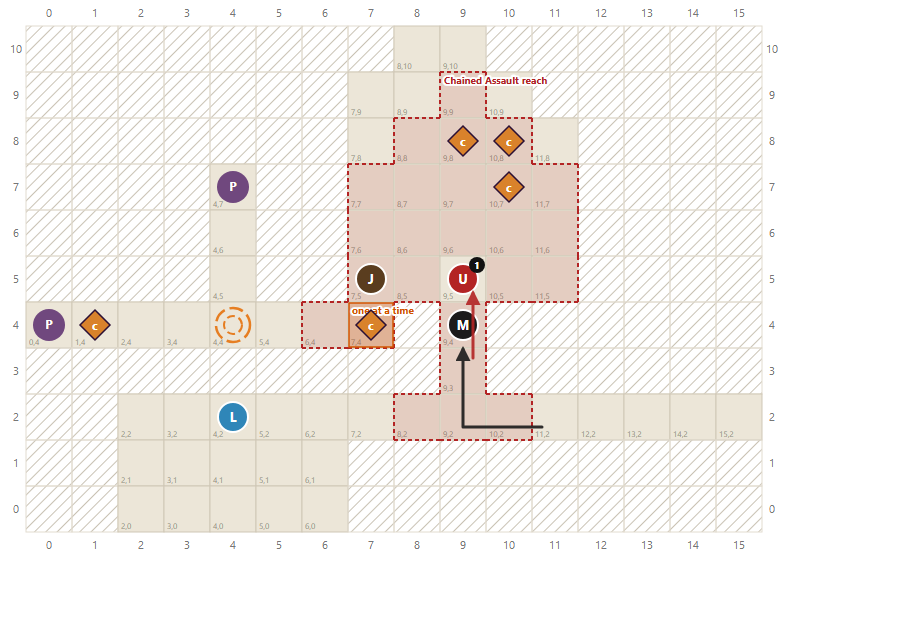
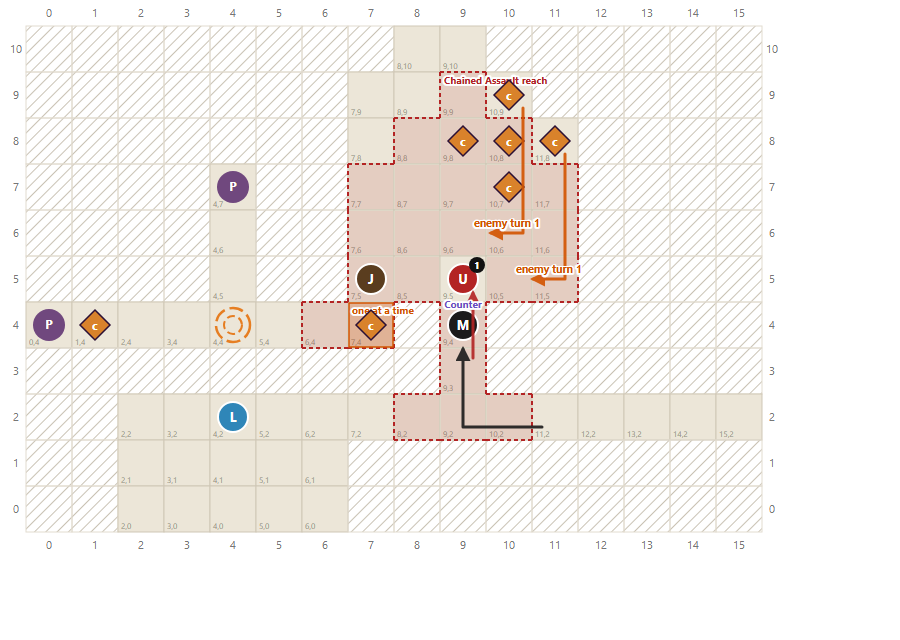
m4-mark-rework: plan with THJ's answers, grids re-rendered and checked

Changed region(s): [[0.5289, 0.125, 0.6533, 0.4688], [0.4978, 0.4688, 0.56, 0.5]]

diff --git a/plans/onboarding/2026-11-05-m4-mark-rework.md b/plans/onboarding/2026-11-05-m4-mark-rework.md
@@ -2,7 +2,18 @@
 
 Size: L    Tier: 3    Assigned to: miso-game-designer (plan); miso-implementer (wiring, after approval)
 Branch: `thj/onboarding` (the working main, D-396)
-Status: waiting on THJ
+Status: approved by THJ 2026-11-05 (D-398)
+
+**THJ's answers (D-398):**
+
+- **Q1:** A+.
+- **Q2:** the 3 hidden Claws appear at John's line, **plus 2 visible around the mother from the start**.
+- **Q3:** real pools, refilling every enemy turn (`SpecificTurns`), with 0-XP variants. This is an exception to D-345.
+- **Q4:** the passage up.
+- **Q5, Q6, Q8:** as recommended.
+- **Q7:** John starts on 10,5. The 7,5 in the drawing only showed the goal.
+
+The plan below is updated to these answers.
 
 ## Why
 
@@ -18,7 +29,7 @@ A ~5-minute telling where the player does three family things in order, each wit
 - [ ] Mark's arrival is followed by a fresh player turn with the camera on Mark (selection after a Reset is random today; see Q8), and his Blitz plus Continuous Attack clear the two Claws that came with him.
 - [ ] John standing on 7,5 plays his line, reveals the Claws by the mother and unlocks the Mark–Lucy Duo, which pulses until it is used.
 - [ ] From the stage that unlocks it, Lucy and Mark can reach a tile where Chained Assault has 3 targets in the same turn.
-- [ ] The last Claw by the mother dying plays her fall, the walk to the cub and the end, and the level is won. No "reach the cub" objective is left.
+- [ ] The last of the five Claws by the mother (2 visible from the start, 3 revealed) dying plays her fall, the walk to the cub and the end, and the level is won. No "reach the cub" objective is left.
 - [ ] Every stage moves on at a turn cap, so a slow or lost player still reaches the end.
 - [ ] No Duo other than Mark–Lucy, and no Cleanse, can be used in the level.
 
@@ -58,12 +69,12 @@ Coordinates are the drawing's (`m4now`). The prefab's top room sits one column r
 |---|---|---|---|
 | 1 | Mark and the two bottom-right Claws hidden at start | One reveal group `arrival`: Mark 15,2, Claws 11,2 and 13,2 | **Confirm.** Tech T3: can `HiddenLevelUnits` hide a *player* unit? (not covered by the tech check) |
 | 2 | Play Tempest Bloom after the opening line | See [Item 2 options](#item-2-how-the-player-plays-tempest-bloom). **Correction to B as drawn:** Lucy on 7,2 can't reach the den. The Bloom tile is 4,4 (the corridor crossing, where the old prism was), 5 tiles from 7,2, and her Cyclone reaches 3 (GDD; the asset may say 4, T8). Lucy must start in the bottom room, and A's "she runs right" becomes part of the arrival | Correct |
-| 3 | Mark appears, turn resets, Mark selected, Mark and Lucy in front in the narrow path | **Selection:** after a Reset the game auto-selects a random unit that can act (tech check). Making it Mark takes two new small sequences (tag the others `Status.Inactive`, then give them AP back), so I propose the camera on Mark instead (Q8). **Narrow path = the x = 9 passage (9,2 → 9,3 → 9,4) up to the top room.** Lucy runs to 9,3 during the arrival sequence. Mark's arrival chain (Blitz 13,2, Continuous Attack 11,2) ends on 11,2, 2 tiles from the passage. Both are then one move from the Duo tiles | Propose (Q4) |
+| 3 | Mark appears, turn resets, Mark selected, Mark and Lucy in front in the narrow path | **Selection:** after a Reset the game auto-selects a random unit that can act (tech check). Making it Mark takes two new small sequences (tag the others `Status.Inactive`, then give them AP back), so the camera goes on Mark instead (Q8, answered). **Narrow path = the x = 9 passage (9,2 → 9,3 → 9,4) up to the top room.** Lucy runs to 9,3 during the arrival sequence. Mark's arrival chain (Blitz 13,2, Continuous Attack 11,2) ends on 11,2, 2 tiles from the passage. Both are then one move from the Duo tiles, and both are in front of John and Linda, as THJ wanted | **Answered (Q4)** |
 | 4 | All Duos and Cleanse locked | All seven Duos and all four Cleanse buttons locked all level; only Mark–Lucy unlocks (at John's line). Reason for Cleanse: one Cleanse destroys a Corruption pool (`level-chunks.md` hazard table), which would make John's hold pointless | Confirm |
-| 5 | John to 7,5 → his line → new Claws on top → Duo hint → Duo unlocks and pulses | **Correction: John can't start on 7,5** (drawn there), or the objective is done at once. He starts on **10,5**, 3 steps away, in the top room. "New Claws appear on top" = **the Claws by the mother start hidden** and appear at his line. Otherwise they walk down at the family before the Duo exists, and the player kills them with basic attacks (Q2) | Correct, propose |
-| 6 | Top Claws dead → mother dies → success | Stage 3 = "every Claw by the mother dead". It must count only that group, because the pools keep Claws alive in the den (T5) | Confirm |
-| 7 | Pools keep one Claw each | The `P` tiles are the existing Corruption pools (`CP_Spawner`, `spawnLimit` 1). Tech check: as placed they refill on enemy turns 1, 3 and 5 only. Listing every turn (`intervalMode = SpecificTurns`) makes them check each enemy turn (data; `interval = 0` is a core bug that never refires). Spawned Claws give 3 XP today, so they need a **0-XP Hearth Claw plus pool variants** (data). That is an exception to **D-345** (no spawned enemies in the memory). Still open: whether spawns come in Alerted (EN-12: spawns are Unaware unless a hostile is within 3, and both pools are 5+ from everyone) | Confirm, with Q3 |
-| 8 | Heroes walk to the cub in a sequence, no "reach the cub" goal | Fixed walkers: **Lucy and Mark** (the Duo pair, nearest after the Duo, and Lucy is the cub's future owner). Tech check: `MoveUnitSequence` walks a unit by nickname to a fixed cell along a real path, one unit after another, and does **nothing, silently, if the path is blocked**. The cub and the mother are sprites, not units; the mother's fall already works (LSB `motherFalls`). "Closest" or "next to" is new code (S–M) | Propose (Q5) |
+| 5 | John to 7,5 → his line → new Claws on top → Duo hint → Duo unlocks and pulses | John starts on **10,5**, 3 steps away, in the top room; 7,5 only marked the goal. "New Claws appear on top" = **3 hidden Claws (9,8 / 10,8 / 10,7)** appear at his line. **2 Claws stand visible by the mother from the start (10,9 / 11,8)** | **Answered (Q2, Q7)** |
+| 6 | Top Claws dead → mother dies → success | Stage 3 = "all five Claws by the mother dead" (explicit list). It must count only that group, because the pools keep Claws alive in the den (T5) | Confirm |
+| 7 | Pools keep one Claw each | The `P` tiles are the existing Corruption pools (`CP_Spawner`, `spawnLimit` 1). Tech check: as placed they refill on enemy turns 1, 3 and 5 only. Listing every turn (`intervalMode = SpecificTurns`) makes them check each enemy turn (data; `interval = 0` is a core bug that never refires). Spawned Claws give 3 XP today, so they need a **0-XP Hearth Claw plus pool variants** (data). That is an exception to **D-345** (no spawned enemies in the memory), logged with D-398. THJ: the pool's Recurring mode spends a turn re-arming after each fire, so every turn is only possible by listing the turns. Still open: whether spawns come in Alerted (EN-12: spawns are Unaware unless a hostile is within 3, and both pools are 5+ from everyone) | **Answered (Q3)** |
+| 8 | Heroes walk to the cub in a sequence, no "reach the cub" goal | Fixed walkers: **Lucy and Mark** (the Duo pair, nearest after the Duo, and Lucy is the cub's future owner). Tech check: `MoveUnitSequence` walks a unit by nickname to a fixed cell along a real path, one unit after another, and does **nothing, silently, if the path is blocked**. The cub and the mother are sprites, not units; the mother's fall already works (LSB `motherFalls`). "Closest" or "next to" is new code (S–M) | **Answered (Q5)** |
 
 ---
 
@@ -123,8 +134,10 @@ From these facts, the **cheapest version that teaches is A+**: the sequence cast
 |---|---|---|
 | Den Claws' HP | 2,4 / 6,4 / 4,5 = 6; 4,6 = 3; 1,4 / 7,4 = 10 | The Bloom kills 4 under either copy-range model; 7,4 survives to face John |
 | Arrival Claws' HP | 11,2 / 13,2 = 8 | Each Blitz (8) kills, so Continuous Attack chains (old plan's gallery values) |
-| Top Claws | 3, at 9,8 / 10,8 / 10,7, HP 7 | From 9,5 all three are within 4 (3, 4, 3). Chained Assault at ×0.7 does 2.1 + 5.6 = 7.7 (≥ 7, even rounded down per hit: 2 + 5 = 7). The Duo ends the fight |
-| Pool cadence | 1 (a Claw each enemy turn when the pool's own Claw is dead) | THJ's "each turn"; was 3 |
+| Top Claws, hidden (`top`) | 3, at 9,8 / 10,8 / 10,7, HP 7 | From 9,5 all three are within 4 (3, 4, 3). Chained Assault at ×0.7 does 2.1 + 5.6 = 7.7 (≥ 7, even rounded down per hit: 2 + 5 = 7) |
+| Top Claws, visible from the start (D-398) | 2, at **10,9** (THJ's drawing) and **11,8** (the nearest free tile by the mother; his drawing has no fifth top tile), HP **8** | Both are 5 from 9,5, so they are never in the Duo's reach and the Duo always takes the hidden three. At 8 HP, one Blitz or Counter (8) kills each, but Lucy's single ember (4 + 3) doesn't. THJ's levers if it plays too hard: cut them or lower their HP |
+| Pool cadence | Every enemy turn, as `intervalMode = SpecificTurns` listing turns 1 to 6 (the stage-3 cap is 4, plus margin); a Claw spawns when the pool's own Claw is dead | THJ's "each turn" (D-398). The Recurring mode spends a turn re-arming after each fire, and `interval 0` never refires |
+| Pool Claw | 0-XP Hearth Claw variant, with matching pool variants (data) | The Hearth gives no XP (`NothingInTheHearthGivesExperience`); an exception to D-345 for these two pools (D-398) |
 | Turn-1 AP | Linda 1, Lucy 0, John 0 (Mark hidden) | One action, and Linda is the only unit that can act, so she is auto-selected (tech check) |
 | Caps | Stage 1: 1; stage 2: 2; stage 3: 4 (as `Turns` caps: "when turn N+1 begins") | Every stage moves on |
 
@@ -133,7 +146,7 @@ Interactions:
 - The Cyclone stays on 4,4 and drifts toward enemies afterwards (it may finish 7,4 or 1,4, which is fine).
 - Linda's **Watch** fires on pool Claws walking down column 4 (4,6 is 4 from 4,2; 4,5 is 3).
 - Lucy's **follow-up** may hit 11,2 when Mark Blitzes 13,2 (she is 3 away on 9,3). It's harmless, and if it kills, the QTE swing has no target.
-- Mark's **Counter**: if the Duo is delayed and a top Claw hits Lucy on 9,5, Mark on 9,4 is within 2 of every tile next to her.
+- Mark's **Counter** is the expected finish. After the Duo, the 2 visible Claws act on enemy turn 1 and both can reach Lucy on 9,5 in 4 steps: 10,9 → 9,6 via 10,8 / 10,7 / 10,6, and 11,8 → 10,5 via 11,7 / 11,6 / 11,5. Neither can reach John on 7,5 (6+ steps to a tile next to him). Each hit (about 3) is answered by Mark's Counter from 9,4: 9,6 and 10,5 are both 2 away, and the Counter's 8 kills an 8-HP Claw. Lucy ends near 9 of 15 HP and the telling ends on the enemy turn. If the Counter doesn't fire (FTP, or the planned once-a-round limit, FR-4), turn 2 cleans up: Mark's Blitz kills one, and two of Lucy's embers kill the other.
 - Pass-by: Lucy walks through Mark, and John through anyone.
 
 Failure cases:
@@ -141,6 +154,7 @@ Failure cases:
 - The player spends Lucy's or Mark's AP before moving John. The Duo is unlocked with nobody able to use it, so it waits a turn; the hint keeps pulsing (WhenUnlocked ignores turns).
 - John never goes to 7,5. Den Claws pour into the top room. Stage 2's cap plays the beat anyway.
 - A dominant strategy is possible: Mark could kill the top Claws alone with Blitz. With only 1 AP left after his chain that can't happen on the unlock turn, and the Duo's 3 targets beat 1 Blitz.
+- **The visible two walk down early (risk THJ accepts).** In the expected flow no enemy turn happens before the Duo (the Bloom ends in the Reset, and the chain, the hold and the Duo all fit in the turn after it). They move only if the player ends that turn without the Duo. Then all five top Claws come at Lucy and Mark. In the passage (Lucy on 9,3) only 9,4 touches her; on 9,5 up to three tiles do (about 9 damage, of her 15). The Claws can't reach John. If it plays too hard, THJ cuts them or lowers their HP.
 
 **UX.** What the player sees, in order:
 
@@ -157,7 +171,7 @@ New on-screen elements: **one**, the Corruption pool, which is existing art new 
 
 Likeliest misread: **after the reset, the player thinks Mark is the one who should go to 7,5** ("the camera is on Mark, the objective says hold the mouth"). After a Reset the auto-selection is random, so it may even pick John or Linda. Mitigation: the objective text names John ("John: hold the den mouth") and the marker sits on 7,5. Second misread: the reset itself ("did I lose my turn?"). The arrival cut-in ends on Mark's "Exactly on time." over a full AP bar, as Memory 1's cut-in does (D-384), so players have seen this once already.
 
-**Where the lenses disagree.** Creative wants the four top Claws visible from the start, menacing the mother. Systems and UX want them hidden: visible and alert, they walk down before the Duo unlocks, and the player kills them with basic attacks, which spends the Duo's lesson. I lean hidden (Q2). The mother and cub stand alone at the top from the start, and the Claws that "come for her" at John's line are the threat that makes him say it.
+**Where the lenses disagreed, and THJ's call.** Creative wanted the top Claws visible from the start, menacing the mother. Systems and UX wanted them hidden, so that they couldn't walk down and die to basic attacks before the Duo. THJ took both (D-398): **2 visible from the start**, so the opening shows the threat over the mother, and **3 hidden** that "come for her" at John's line and are the Duo's targets. The visible two stand out of the Duo's reach and become Mark's Counter targets (or turn 2's clean-up).
 
 ---
 
@@ -167,17 +181,18 @@ Likeliest misread: **after the reset, the player thinks Mark is the one who shou
 
 | # | Beat | On screen | Player does | Systems |
 |---|---|---|---|---|
-| 0 | **[S] Opening** | Grid fades in on the bottom room, the den across the gap, John up top, the mother over the cub | — | Intro sequence. Mission rules as the other segments: Tutorial tier, `level xp none`, `level fp full`, all alert. `LevelAbilityLock` from the start: every Duo trigger and every `CleanseAbility` (tech check: it can). No kit locks: turn 1 is held by AP alone |
+| 0 | **[S] Opening** | Grid fades in on the bottom room, the den across the gap, John up top, the mother over the cub with 2 Claws beside her (10,9, 11,8) | — | Intro sequence. Mission rules as the other segments: Tutorial tier, `level xp none`, `level fp full`, all alert. `LevelAbilityLock` from the start: every Duo trigger and every `CleanseAbility` (tech check: it can). No kit locks: turn 1 is held by AP alone |
 | 0b | Lines (N1): Mark sets the scene. John: "Lucy, shut the den!" (in-character, not an instruction). **`CastAbilitySequence`: Lucy casts Cyclone on 4,4** (no AP spent; it then behaves as normal, tech check). John: "Linda, through her storm!" (N2) | | | AP cap turn 1 (`TurnStartActionPointLimit`, built): Linda 1, Lucy 0, John 0 |
 | 1 | **[P] Turn 1, the Bloom** | Linda auto-selected (the only unit with AP); her bow pulses (`GuidedAbilityHint`, turn 1); one lane has a target, column 4 through the storm | Shoots; the arrow splits three ways; 4 Claws die | Stage 1 completes: "any of 2,4 / 6,4 / 4,5 / 4,6 destroyed" (`EntitiesDestroyedLOCondition`, aggregation Any), hidden objective. Cap 1 as fallback (if she walks instead, the turn ends with no AP left) |
 | 4 | **[S] Arrival** (stage 1's complete sequence) | Mark: "And Linda shot straight into Lucy's fire, and the whole cave bloomed." · Linda: "Did I?" · Mark: "In my version, you did." → Lucy runs 4,1 → 9,3 (`MoveUnitSequence`; route 5,1 / 5,2 / 9,2 / 9,3 is clear of allies, since a blocked path is a silent no-op) → camera east → reveal `arrival` (Mark 15,2, Claws 11,2, 13,2) → Mark: "And then I arrived." · Lucy: "Late." · Mark: "Exactly on time." | — | LSB **Reset** (fresh player turn, everyone's AP refilled; the AP limit doesn't re-fire; the player faction ticks once more, so cooldowns and the Cyclone lose a turn) → camera on Mark → input on. Selection is random among the units that can act (Q8). Stage 2 objective shows |
-| 5 | **[P] Turn 1 again: Mark's entrance** | Camera on Mark; objective "John: hold the den mouth." with 7,5 marked (T12) | Mark Blitzes 13,2 (2 away), QTE swing kills 11,2 (2 away), ends on 11,2 with 1 AP | Continuous Attack 1 FTP (MA-2 as built). Atman's Focus +1 per hit, not pointed at |
+| 5 | **[P] Turn 1 again: Mark's entrance** | Camera on Mark; objective "John: hold the den mouth." with 7,5 marked (T12) | Mark Blitzes 13,2 (2 away), QTE swing kills 11,2 (2 away), ends on 11,2 with 1 AP | Continuous Attack 1 FTP (MA-2 as built). Atman's Focus +1 per hit, not pointed at. The pools are set to spawn from enemy turn 1 (`SpecificTurns` 1 to 6) |
 | 6 | **[P] John to the mouth** | | John 10,5 → 7,5 (3 steps: 9,5 / 8,5 / 7,5) | Stage 2 completes: John on 7,5 (`UnitTileOccupiedLOCondition`), or cap 2 |
-| 7 | **[S] The hold** (stage 2's complete sequence) | John: "I'll hold them off. You save them." → camera to the top → reveal `top` (9,8, 10,8, 10,7) → Mark: "Lucy's fire, my fists. As we practiced." · Lucy: "We never practiced that." · Mark: "I practiced. You followed." (M4-5 to M4-7, moved here) → camera back | — | Unlock the Mark–Lucy Duo (`LevelAbilityLock` unlock; T2: the tech check says an unlock applies to all heroes at once with no re-lock. If that means the whole lock list opens, the other Duos and Cleanse open here too, and keeping them shut needs "unlock per preset", S) → its WhenUnlocked hint pulses until used. Stage 3 objective shows: "Save the cub." (an explicit-list condition has no "{n} left" counter; a counter is a new small condition class, S) + "Turns left in the memory: {remaining_0}." **Stage 3 must activate after the reveal**: hidden units probably count as destroyed before they are revealed (tech check) |
-| 8 | **[P] The Duo** | Duo button pulses on Lucy and on Mark | Mark 11,2 → 9,4 (4 steps, his last AP). Lucy 9,3 → 9,5 (2 steps), then Chained Assault with her last AP: 3 targets within 4, mash, all three die | DU-1: activator needs ≥ 1 AP and pays 1 AP in Mark–Lucy; 2 FTP. Range origin T13: from 9,5 the targets are 3 / 4 / 3 |
+| 7 | **[S] The hold** (stage 2's complete sequence) | John: "I'll hold them off. You save them." → camera to the top → reveal `top` (9,8, 10,8, 10,7) → Mark: "Lucy's fire, my fists. As we practiced." · Lucy: "We never practiced that." · Mark: "I practiced. You followed." (M4-5 to M4-7, moved here) → camera back | — | Unlock the Mark–Lucy Duo (`LevelAbilityLock` unlock; T2: the tech check says an unlock applies to all heroes at once with no re-lock. If that means the whole lock list opens, the other Duos and Cleanse open here too, and keeping them shut needs "unlock per preset", S) → its WhenUnlocked hint pulses until used. Stage 3 objective shows: "Save the cub." (all five: the 2 visible and the 3 revealed) (an explicit-list condition has no "{n} left" counter; a counter is a new small condition class, S) + "Turns left in the memory: {remaining_0}." **Stage 3 must activate after the reveal**: hidden units probably count as destroyed before they are revealed (tech check) |
+| 8 | **[P] The Duo** | Duo button pulses on Lucy and on Mark | Mark 11,2 → 9,4 (4 steps, his last AP). Lucy 9,3 → 9,5 (2 steps), then Chained Assault with her last AP: the 3 revealed Claws are within 4, mash, all three die. The visible two (both 5 away) remain. End turn | DU-1: activator needs ≥ 1 AP and pays 1 AP in Mark–Lucy; 2 FTP. Range origin T13: from 9,5 the targets are 3 / 4 / 3, and the visible two are 5 |
+| 8b | **Enemy turn 1** | The 2 visible Claws come at Lucy (to 9,6 and 10,5); Mark Counters each from 9,4. The pools spawn; den Claws queue at 7,4 against John | QTEs (Counter, John's Role if a Claw hits him) | If both die to Counters, stage 3 completes on the enemy turn. Otherwise **player turn 2** cleans up (Mark Blitz, Lucy embers) |
 | 9 | **[S] Ending** (stage 3 complete = win; played in the outro) | Camera to the ledge → the mother falls (LSB `motherFalls`, kept) → Mark, level voice (N7, rewritten: she was there all along) → Lucy walks to 8,9, Mark to 9,9 → "The cub cried out." → Lucy: "She saved her. We only carried her home." → grid fades → Hearth cutaway (kept: Margaret, "Ten Claws, Lucy." / "At least.") | — | No jokes from the mother's fall on (D-171). The pool Claws are still in the den, and input is off |
 
-**Reset count: one** (beat 4, THJ's). I don't add a second at John's line (Q6). Beats 2 and 3 of the first draft (a Cyclone cast by the player, then an unlock of Linda's bow) are folded into 0b and 1 by the A+ choice.
+**Reset count: one** (beat 4, THJ's). No second at John's line (Q6, answered). Beats 2 and 3 of the first draft (a Cyclone cast by the player, then an unlock of Linda's bow) are folded into 0b and 1 by the A+ choice.
 
 ---
 
@@ -189,8 +204,8 @@ Coordinates as `m4now` (16 × 11, x from the left, y from the bottom). **Don't r
 
 ```grid id=m4r-start title="Memory 4 rework · start (hidden units drawn, tinted)"
 _ _ _ _ _ _ _ _ . . _ _ _ _ _ _
-_ _ _ _ _ _ _ . . . . _ _ _ _ _
-_ _ _ _ _ _ _ . . c c . _ _ _ _
+_ _ _ _ _ _ _ . . . c _ _ _ _ _
+_ _ _ _ _ _ _ . . c c c _ _ _ _
 _ _ _ _ P _ _ . . . c . _ _ _ _
 _ _ _ _ c _ _ . . . . . _ _ _ _
 _ _ _ _ c _ _ . . . J . _ _ _ _
@@ -202,6 +217,7 @@ _ _ . . . . . _ _ _ _ _ _ _ _ _
 --
 cells 9,8 10,8 10,7 enemy hidden: top
 cells 11,2 13,2 15,2 mark hidden: arrival
+note 11,8 visible
 cells 7,5 john den mouth
 note 8,10 cub
 note 9,10 mother
@@ -215,14 +231,14 @@ level hidden top 9,8 10,8 10,7
 level hidden arrival 11,2 13,2 15,2
 ```
 
-Note: Lucy 4,1 and Linda 4,2 (Lucy 4,0 if the Cyclone reaches 4, T8). John 10,5. Den Claws 1,4 / 2,4 / 6,4 / 7,4 / 4,5 / 4,6, pools 0,4 and 4,7. Alert check (skill): everyone starts alert by the mission rule, but no enemy turn comes before the Bloom and the reset, so the first enemy turn sees John already at the mouth if the player follows the flow. Nearest visible threat to the family: 4,5 is 3 from Linda, across the gap. The top room's fourth Claw (THJ's 10,9) is dropped (lever: keep it if THJ wants Mark's Counter or a turn-2 clean-up).
+Note: Lucy 4,1 and Linda 4,2 (Lucy 4,0 if the Cyclone reaches 4, T8). John 10,5. Den Claws 1,4 / 2,4 / 6,4 / 7,4 / 4,5 / 4,6, pools 0,4 and 4,7. Alert check (skill): everyone starts alert by the mission rule, but no enemy turn comes before the Bloom and the reset, so the first enemy turn sees John already at the mouth if the player follows the flow. Nearest visible threat to the family: 4,5 is 3 from Linda, across the gap. **Two Claws stand visible by the mother from the start (D-398): 10,9 (THJ's tile) and 11,8 (the nearest free tile by her, my pick, since his drawing has only four top tiles and the hidden three use the other three).** Both are 4 from John on 10,5, but no enemy turn comes before he moves. If THJ prefers 9,9 (straight under the mother) for the second, it would be 4 from 9,5, inside the Duo's reach. The Duo would still take 3 targets, but the hidden three would no longer be guaranteed, and 9,9 is Mark's walk-to tile in the ending.
 
 ### 2 · The Bloom (turn 1)
 
 ```grid id=m4r-bloom title="Memory 4 rework · the Bloom: Cyclone on 4,4, arrow up column 4"
 _ _ _ _ _ _ _ _ . . _ _ _ _ _ _
-_ _ _ _ _ _ _ . . . . _ _ _ _ _
-_ _ _ _ _ _ _ . . . . . _ _ _ _
+_ _ _ _ _ _ _ . . . c _ _ _ _ _
+_ _ _ _ _ _ _ . . . . c _ _ _ _
 _ _ _ _ P _ _ . . . . . _ _ _ _
 _ _ _ _ c _ _ . . . . . _ _ _ _
 _ _ _ _ c _ _ . . . J . _ _ _ _
@@ -247,8 +263,8 @@ Note: step 1 is Lucy's Cyclone from 4,1, cast by the opening sequence (A+). It's
 
 ```grid id=m4r-arrival title="Memory 4 rework · arrival: Mark's chain, John to the mouth"
 _ _ _ _ _ _ _ _ . . _ _ _ _ _ _
-_ _ _ _ _ _ _ . . . . _ _ _ _ _
-_ _ _ _ _ _ _ . . . . . _ _ _ _
+_ _ _ _ _ _ _ . . . c _ _ _ _ _
+_ _ _ _ _ _ _ . . . . c _ _ _ _
 _ _ _ _ P _ _ . . . . . _ _ _ _
 _ _ _ _ . _ _ . . . . . _ _ _ _
 _ _ _ _ . _ _ . . . J . _ _ _ _
@@ -273,8 +289,8 @@ Note: Lucy ran to 9,3 in the cut-in. Mark Blitzes 13,2 (2 away), steps in, and t
 
 ```grid id=m4r-hold title="Memory 4 rework · the hold: top Claws revealed, Chained Assault from 9,5"
 _ _ _ _ _ _ _ _ . . _ _ _ _ _ _
-_ _ _ _ _ _ _ . . . . _ _ _ _ _
-_ _ _ _ _ _ _ . . c c . _ _ _ _
+_ _ _ _ _ _ _ . . . c _ _ _ _ _
+_ _ _ _ _ _ _ . . c c c _ _ _ _
 _ _ _ _ P _ _ . . . c . _ _ _ _
 _ _ _ _ . _ _ . . . . . _ _ _ _
 _ _ _ _ . _ _ J . U . . _ _ _ _
@@ -288,10 +304,13 @@ range 9,5 4 lucy Chained Assault reach
 arrow 9,3 9,5 lucy dx=10
 arrow 11,2 9,2 9,4 mark dy=10
 cells 7,4 enemy one at a time
+arrow 10,9 10,6 9,6 enemy dx=14 enemy turn 1
+arrow 11,8 11,5 10,5 enemy dx=10 enemy turn 1
 step 9,5 1
+note 9,4 Counter
 ```
 
-Note: Lucy walks 2 (9,3 → 9,5) and keeps 1 AP for the Duo. Mark walks 4 (11,2 → 9,4) on his last AP. From 9,5 the targets are 10,7 (3), 9,8 (3) and 10,8 (4): all three, nearest first. From 9,4 only two are in reach (4, 4; 10,8 is 5). So if the reach is measured from Mark (T13), the two swap tiles. John on 7,5 has one attacker tile, 7,4. The den is sealed: 7,4 → 7,5 is its only link to the top room.
+Note: Lucy walks 2 (9,3 → 9,5) and keeps 1 AP for the Duo. Mark walks 4 (11,2 → 9,4) on his last AP. From 9,5 the targets are 10,7 (3), 9,8 (3) and 10,8 (4): all three revealed Claws, nearest first. The 2 visible Claws, 10,9 and 11,8, are both 5 away and outside the reach. On enemy turn 1 (the enemy-coloured arrows) they walk 4 each to 9,6 and 10,5, next to Lucy, and hit her. Mark on 9,4 is 2 from both tiles and Counters each (8 against 8 HP). From 9,4 only two are in reach (4, 4; 10,8 is 5). So if the reach is measured from Mark (T13), the two swap tiles. John on 7,5 has one attacker tile, 7,4. The den is sealed: 7,4 → 7,5 is its only link to the top room.
 
 ### 5 · Ending (sequence, no input)
 
@@ -326,7 +345,9 @@ Note: Lucy moves first, then Mark (so Mark's path up column 9 is clear). The wal
 - Mark's chain: Blitz 2 + swing 2.
 - John: 10,5 → 7,5 = 3, one move.
 - Lucy to the Duo tile: 2. Mark: 4.
-- Duo targets from 9,5: 3 / 4 / 3.
+- Duo targets from 9,5: 3 / 4 / 3. The visible two are 5 / 5, outside.
+- Visible two to Lucy: 10,9 → 9,6 = 4 and 11,8 → 10,5 = 4, both through floor that is free after the Duo. To any tile next to John: 6+.
+- Mark's Counter from 9,4 to 9,6 and to 10,5: 2 each.
 - Pools to John: 4,7 → 7,5 = 5. 0,4 → 7,5 = 8. Both outside the 3-tile sight, hence T10.
 
 ---
@@ -337,19 +358,19 @@ Note: Lucy moves first, then Mark (so Mark's path up column 9 is clear). The wal
 |---|---|---|---|---|
 | 1 Bloom | any of 2,4 / 6,4 / 4,5 / 4,6 destroyed (`EntitiesDestroyedLOCondition`, Any) | 1 (turn 2 begins) | hidden | Arrival sequence (beat 4), including the reset |
 | 2 Hold | John on 7,5 (`UnitTileOccupiedLOCondition`) | 2 (turn 3 begins) | "John: hold the den mouth." | The hold sequence (beat 7) |
-| 3 Save | 9,8 / 10,8 / 10,7 all destroyed (`EntitiesDestroyedLOCondition`, explicit list; the pools' Claws would break a "living units" count) | 4 (turn 5 begins) | "Save the cub." + "Turns left in the memory: {remaining_0}." | Win → the outro holds the whole ending (beat 9) |
+| 3 Save | 10,9 / 11,8 (visible) and 9,8 / 10,8 / 10,7 (revealed) all destroyed (`EntitiesDestroyedLOCondition`, explicit list of 5; the pools' Claws would break a "living units" count) | 4 (turn 5 begins) | "Save the cub." + "Turns left in the memory: {remaining_0}." | Win → the outro holds the whole ending (beat 9) |
 
 Loss: the template's (family down). At Tutorial damage (about 3 a Claw) it's unlikely.
 
-**Expected:** the Bloom turn, then one full turn (the chain, the hold and the Duo all on turn 1 after the reset), then the end. That's **one player turn plus the reset turn**. A player who delays the Duo finishes on turn 2.
+**Expected:** the Bloom turn, then one full turn (the chain, the hold and the Duo all on turn 1 after the reset), then **enemy turn 1**. On it, the visible two attack Lucy and die to Mark's Counters, and the telling ends there. If a Counter doesn't kill, the end comes on **player turn 2** (one Blitz, two embers). A player who delays the Duo finishes on turn 2 or 3.
 
 **A slow player:**
 
-- If Linda walks instead of shooting, the turn ends. The den Claws (alert) walk toward the family via 7,5 and the passage, and on turn 2 the cap plays the arrival anyway. The boast lines cover the missing Bloom.
+- If Linda walks instead of shooting, the turn ends. The den Claws (alert) walk toward the family via 7,5 and the passage, the visible two by the mother come down too, and on turn 2 the cap plays the arrival anyway. The boast lines cover the missing Bloom. This is the hardest case: 2 + 6 Claws loose before Mark arrives. THJ's levers are the visible two's HP, or cutting them.
 - If John never goes to 7,5, the den Claws and the pool spawns (one per pool, at most two at a time plus 1,4 and 7,4) come up through 7,5 into the top room and down the passage at Lucy and Mark. At turn 3 the cap plays John's line wherever he stands, and the reveal and the Duo follow.
-- If the Duo isn't used, the hint keeps pulsing, the top Claws attack Lucy, Mark Counters, and the turn-5 cap ends the telling. Pools never empty the den, but the den is sealed as long as John stands on 7,5.
+- If the Duo isn't used, the hint keeps pulsing, all five top Claws come at Lucy and Mark (in the passage only one tile touches Lucy; on 9,5, three), Mark Counters, and the turn-5 cap ends the telling. Pools refill every enemy turn and never empty the den, but the den is sealed as long as John stands on 7,5.
 
-**Time (cold player, the levels plan's rates):** opening and lines 0.5, Bloom turn 0.75, arrival cut-in 0.5, Mark/John/Duo turn 1.5, enemy turn 0.3, ending 0.75 ≈ **4.5 min** (+0.4 cutaway). That's within the plan's 5.0 for the segment.
+**Time (cold player, the levels plan's rates):** opening and lines 0.5, Bloom turn 0.75, arrival cut-in 0.5, Mark/John/Duo turn 1.5, enemy turn with Counters 0.4, a turn-2 clean-up when needed 0.3, ending 0.75 ≈ **4.7 min** (+0.4 cutaway). That's within the plan's 5.0 for the segment.
 
 ---
 
@@ -386,7 +407,7 @@ Answered rows are from the tech check ([`reports/m4-mark-rework-tech.md`](../../
 
 ## Complexity budget
 
-The one sentence: *"John holds the den while Lucy and Mark save the cub."* New on-screen element: the Corruption pool (existing art, new to the player). It replaces nothing because the old segment had no hold; it's needed so the hold has a reason. Everything else reuses this memory's own tools (locks, pulses, AP caps, reveals, a reset). The one item that adds tracking is the pools, which is why Q3 asks rather than decides.
+The one sentence: *"John holds the den while Lucy and Mark save the cub."* New on-screen element: the Corruption pool (existing art, new to the player). It replaces nothing because the old segment had no hold; it's needed so the hold has a reason. Everything else reuses this memory's own tools (locks, pulses, AP caps, reveals, a reset). The one item that adds tracking is the pools, which is why it went to THJ as Q3 (answered: real pools, D-398).
 
 ## Risks
 
@@ -401,18 +422,23 @@ The one sentence: *"John holds the den while Lucy and Mark save the cub."* New o
 
 ---
 
-## Recommendation
+## Recommendation (approved, D-398)
 
 Build:
 
 - **Option A+** for the Bloom: the opening sequence casts Lucy's Cyclone on 4,4 at John's call, then turn 1 gives only Linda AP, and her bow pulses.
 - The three-stage flow above, with **one reset** (at Mark's arrival) and the **camera on Mark** after it.
 - John starting on **10,5**.
-- The **three** top Claws **hidden until John's line**.
+- **Two Claws visible by the mother from the start** (10,9, 11,8; HP 8) **plus three hidden** (9,8, 10,8, 10,7; HP 7) that appear at John's line. Stage 3 waits for all five.
 - Lucy and Mark as the **fixed walkers** to the cub.
-- The pools as **real Corruption pools refilling every enemy turn** (`SpecificTurns`, 0-XP Claw variants), if T10's open point (spawns come in Alerted) holds. Otherwise Q3's option b.
+- The pools as **real Corruption pools refilling every enemy turn** (`SpecificTurns` 1 to 6, 0-XP Claw and pool variants; an exception to D-345).
 
 New code: `CastAbilitySequence` (S, not core), plus "unlock per preset" (S) only if T2 needs it. Starting values are in the levers table above.
+
+**Still open for the build:**
+
+- Whether pool spawns come in Alerted (T10). If they come in Unaware, they sit 5+ tiles from everyone and never reach John. The fix is data or a small change, to settle in the wiring plan; the staged reveal (old Q3b) is the fallback.
+- The second visible tile, 11,8, is my pick (THJ's drawing has only four top tiles).
 
 **Playtest signal:**
 
@@ -421,51 +447,51 @@ New code: `CastAbilitySequence` (S, not core), plus "unlock per preset" (S) only
 
 ---
 
-## Questions for THJ
+## Questions for THJ (all answered 2026-11-05, D-398)
 
-**Q1. How does the player play Tempest Bloom?**
+**Q1. How does the player play Tempest Bloom?** **Answered: A+.**
 - Context: a forced unit, ability and cell is a core change (M, Tier 3; tech check). A sequence can cast the Cyclone with a new `CastAbilitySequence` (S). Locks unlock only once for everyone, and nothing fires a sequence when an ability is used. THJ's B can't work as drawn: Lucy on 7,2 is 5 from the den crossing, her Cyclone reaches 3, and B needs two new pieces (set AP after a Reset, a trigger on "Cyclone used"), while the Reset costs the Cyclone a turn of life.
 - Options: A (scripted Cyclone, Lucy runs off, the player shoots); **A+ (John calls, the sequence casts Lucy's Cyclone on 4,4 in view, and only Linda has AP on turn 1, so she is auto-selected with her bow pulsing; Lucy runs ahead later, in the arrival)**; B; C (forced action); D (both clicks by the player: Lucy's reach leaves 4,4 the only den tile, plus a new trigger to order them); E (cutscene).
 - Recommendation: **A+**. D is the upgrade if you want Lucy's click too (+1 small new piece).
 - Blocked: the wiring of beats 0 to 1; `CastAbilitySequence`.
 
-**Q2. Are the Claws by the mother there from the start, or are they the "new Claws" at John's line?**
+**Q2. Are the Claws by the mother there from the start, or are they the "new Claws" at John's line?** **Answered: both.** 3 hidden that appear at John's line (9,8 / 10,8 / 10,7), **plus 2 visible around the mother from the start** (10,9 / 11,8). THJ accepts the risk that the visible two walk down early, and will cut them or lower their HP if it plays too hard. Duo re-check: from 9,5 the three revealed Claws are within 4 (3 / 4 / 3) and the visible two are 5, so Chained Assault takes 3 on the unlock turn. The visible two then die to Mark's Counters on enemy turn 1, or in turn 2's clean-up.
 - Context: alert and visible, they walk down before the Duo unlocks, and get killed by basic attacks.
 - Options: (a) **hidden until John's line** (the mother and cub alone at the top before that); (b) visible from the start but Unaware, waking at the line (fragile: any ability within 2 or a family member within 3 wakes them); (c) visible plus 2 more at the line (more enemies, longer).
 - Recommendation: **(a)**, with **3** Claws (9,8 / 10,8 / 10,7), not 4, so the Duo's three targets end the fight. Keep 10,9 if you want a turn-2 clean-up or a Counter moment.
 - Blocked: the `top` group and stage 3.
 
-**Q3. Pools: real spawners or a staged reveal?**
+**Q3. Pools: real spawners or a staged reveal?** **Answered: real pools, refilling every enemy turn.** The Recurring mode re-arms for a turn after each fire and `interval 0` never refires, so the turns are listed with `SpecificTurns` (data), plus the 0-XP Claw variants. The exception to D-345 is logged with D-398.
 - Context: the drawn `P` are Corruption pools (`CP_Spawner`). D-345 bans spawned enemies in the memory. The tech check found they refill only on enemy turns 1, 3 and 5 as placed. Every turn is data (`SpecificTurns`; `interval 0` is a core bug). Spawns give 3 XP, so 0-XP Hearth Claw and pool variants are needed (data, S). Still open: spawns may come in Unaware (EN-12), since both pools are 5+ from everyone, and then they'd never reach John.
 - Options: (a) **real pools**, every enemy turn, 0-XP variants, Cleanse locked (a D-345 exception for these two), if spawns come in Alerted; (b) no spawning: the pool art stays, and 2 hidden Claws on the pool tiles are revealed at John's line ("more kept coming"); (c) no pools.
 - Recommendation: **(a)** if the alert point holds. Otherwise **(b)**: it keeps D-345, and for a 2-turn hold it plays almost the same.
 - Blocked: the den's data; the slow-player pressure.
 
-**Q4. Which narrow path?**
+**Q4. Which narrow path?** **Answered: the passage up.** With Lucy moved there, Lucy and Mark are both in front of John and Linda, as THJ wanted.
 - Context: you asked for Mark and Lucy in front in the narrow path.
 - Options: (a) **the x = 9 passage**: Lucy runs to 9,3 in the arrival cut-in, and Mark's chain ends 2 tiles from it on 11,2; (b) the bottom corridor (y = 2), with Mark arriving nearer the passage (for example on 12,2, with the two Claws at 10,2 and 11,2 between him and Lucy).
 - Recommendation: **(a)**.
 - Blocked: the arrival sequence's run destination.
 
-**Q5. Who walks to the cub?**
+**Q5. Who walks to the cub?** **Answered: (a), Lucy and Mark, fixed.**
 - Context: "closest heroes" needs new logic; fixed walkers are a built `MoveUnitSequence`.
 - Options: (a) **Lucy and Mark, fixed**; (b) the two closest (new logic); (c) all four.
 - Recommendation: **(a)**.
 - Blocked: the ending sequence.
 
-**Q6. A second reset at John's line?**
+**Q6. A second reset at John's line?** **Answered: (a), no.**
 - Context: if the player spent Lucy's or Mark's AP before moving John, the Duo waits a turn (its pulse persists).
 - Options: (a) **no** (control just returns, as you wrote); (b) reset at John's line so the Duo is always usable at once.
 - Recommendation: **(a)**. Add (b) only if the play check shows players stranded without AP.
 - Blocked: nothing now.
 
-**Q7. John's start tile.**
+**Q7. John's start tile.** **Answered: 10,5.** THJ never meant John to start on 7,5; that tile only showed the goal.
 - Context: drawn on 7,5, which would complete his objective at once.
 - Options: (a) **10,5 in the top room**, 3 steps from the mouth; (b) with the sisters in the bottom room, 6+ steps through the passage, his whole turn.
 - Recommendation: **(a)**.
 - Blocked: the start layout.
 
-**Q8. Must Mark be *selected* after the reset, or is the camera on him enough?**
+**Q8. Must Mark be *selected* after the reset, or is the camera on him enough?** **Answered: (a), camera on Mark.**
 - Context: after a Reset the game auto-selects a random unit that can act (tech check).
 - Options: (a) **camera on Mark** plus his line, and the player clicks him (no new code); (b) true selection: tag the others `Status.Inactive` during the Reset so only Mark gets AP and is selected, then untag them and give their AP back with a "set AP" sequence (two new small sequences); this also means Mark acts first, alone.
 - Recommendation: **(a)**. Take (b) if the play check shows players starting with John or Linda and missing Mark's entrance.
@@ -483,42 +509,43 @@ New code: `CastAbilitySequence` (S, not core), plus "unlock per preset" (S) only
 | M4-1 to M4-3 | Arrival | Kept ("And then I arrived." per THJ) |
 | N5 | John on 7,5 | THJ's "I'll hold them off. You save them." Polish only |
 | M4-5 to M4-7 | The hold | Kept, moved from "first Chained Assault bark" to the Duo hint |
-| N7 | Ending | **Rewrite M4-11 and M4-12.** "Then her mother came" no longer fits: she is there from the start. Something like "She'd stood over the cub the whole time. Until the last Claw fell." Then M4-13, the narrator's "The cub cried out.", and Lucy's line as today. No jokes (D-171) |
-| Cutaway | End | Unchanged. "Ten Claws, Lucy." still works: 6 in the den, 2 with Mark, 3 by the mother, plus pool spawns |
+| N7 | Ending | **Rewrite M4-11 and M4-12.** "Then her mother came" no longer fits: she is there from the start, with two Claws already at her. Something like "She'd stood over the cub the whole time. Until the last Claw fell." Then M4-13, the narrator's "The cub cried out.", and Lucy's line as today. No jokes (D-171) |
+| Cutaway | End | Unchanged. "Ten Claws, Lucy." / "At least." works even better: 6 in the den, 2 with Mark, 5 by the mother, plus pool spawns |
 
 ## What changes in the levels plan (Segment 4)
 
 - **Grid and table replaced** by this plan's grids and stages.
 - **Teaches:** Tempest Bloom by the player (was scripted), Continuous Attack on the entrance, Chained Assault.
-- **Enemies:** 6 den + 2 arrival + 3 top, plus pools (Q3).
+- **Enemies:** 6 den + 2 arrival + 5 top (2 visible, 3 hidden), plus two pools refilling every enemy turn with 0-XP Claws.
 - **Stages:** 3 instead of 2. The "Reach the cub" stage is removed, and **D-347 (the cue Claws fight during the walk) is superseded**: there is no player walk.
 - **The mother's scene** moves from the end of stage 1 to the outro.
-- **D-345:** an exception is proposed for the pools (Q3a), or kept (Q3b).
-- **To check rows:** 2 resolved by design (scripted Bloom, the quiver question); T1 to T16 added.
-- **Hearth time:** 5.0 → 4.5 + 0.4.
+- **D-345:** exception for these two pools (D-398).
+- **To check rows:** 2 resolved by design (scripted Bloom, the quiver question); the open T rows added.
+- **Hearth time:** 5.0 → 4.7 + 0.4.
 
 ---
 
 ## Player experience
 
-- The memory fades in. I'm in a small cave room with Linda and Lucy. Across a gap there's a corridor full of Claws, with two dark pools at its ends. Up top, a big wolf stands over a cub, and Dad is up there too.
+- The memory fades in. I'm in a small cave room with Linda and Lucy. Across a gap there's a corridor full of Claws, with two dark pools at its ends. Up top, a big wolf stands over a cub with two Claws circling her, and Dad is up there too.
 - Mark (telling the story) sets the scene. Dad shouts at Lucy to shut the den, and she throws a storm right where the corridors cross.
 - Dad shouts to Linda. She's the only one who can act, and her bow button glows. I shoot up at the storm, and the arrow splits three ways down the corridors. Four Claws drop.
 - Mark: "And Linda shot straight into Lucy's fire, and the whole cave bloomed." Linda: "Did I?" Mark: "In my version, you did."
 - Lucy runs ahead toward the passage to the cub. At the far end of the tunnel, Mark appears behind two Claws. "And then I arrived." "Late." "Exactly on time."
 - It's my turn again with everyone fresh, and the camera is on Mark. I click him. He jumps one Claw, a button prompt lets him swing again, and the second drops.
 - The goal says John must hold the den mouth, and the tile is marked. I walk Dad there, three steps.
-- Dad: "I'll hold them off. You save them." Three Claws appear around the wolf. Mark: "Lucy's fire, my fists. As we practiced." Lucy: "We never practiced that." Mark: "I practiced. You followed."
-- A new button glows on Lucy and Mark, their Duo. I step them up the passage and fire it: Lucy's embers and Mark's ghost fists hit all three Claws, and they fall.
+- Dad: "I'll hold them off. You save them." Three more Claws appear around the wolf. Mark: "Lucy's fire, my fists. As we practiced." Lucy: "We never practiced that." Mark: "I practiced. You followed."
+- A new button glows on Lucy and Mark, their Duo. I step them up the passage and fire it: Lucy's embers and Mark's ghost fists hit the three new Claws, and they fall. I end the turn.
+- The last two Claws by the wolf run at Lucy. Each time one hits her, Mark strikes back and drops it. (If one survives, I finish it next turn.) Pools keep spitting Claws at Dad, but he holds the mouth.
 - The jokes stop. The wolf lies down and doesn't get up. Lucy and Mark walk up to the cub, and it cries out. Lucy: "She saved her. We only carried her home."
 - The grid fades back to the hearth. "Ten Claws, Lucy." "At least."
 
-## Docs to update if approved
+## Docs to update (approved, D-398)
 
 - `plans/onboarding/2026-10-26-onboarding-levels.md` Segment 4 (grid, table, Hearth time, To check), with a history line pointing here.
 - `plans/onboarding/onboarding-narrative-draft.md` Step 4 (via `miso-narrative`: N1, N2, N5, N7, the moved lines).
 - `design/level-chunks.md`: optional new pattern "hold the door" (a 1-wide mouth, a sealed spawner den, one defender), plus a coverage row for John. Only if THJ wants it catalogued.
-- GDD: **no rule changes** (all level data). If Q3a is chosen, `missions-structure.md` gets no change either, because the pool cadence is per-level data. The decision log gets the D-345 exception (coordinator).
+- GDD: **no rule changes** (all level data, including the pool cadence). The decision log gets the D-345 exception with D-398 (coordinator).
 - `HearthMemoryWiring.Mark.cs` and `HearthMemoryMarkTests.cs` (implementer, after approval): stages, sequences, locks, AP limit, hints, hidden groups, re-read tile constants.
 
 ## Gates
